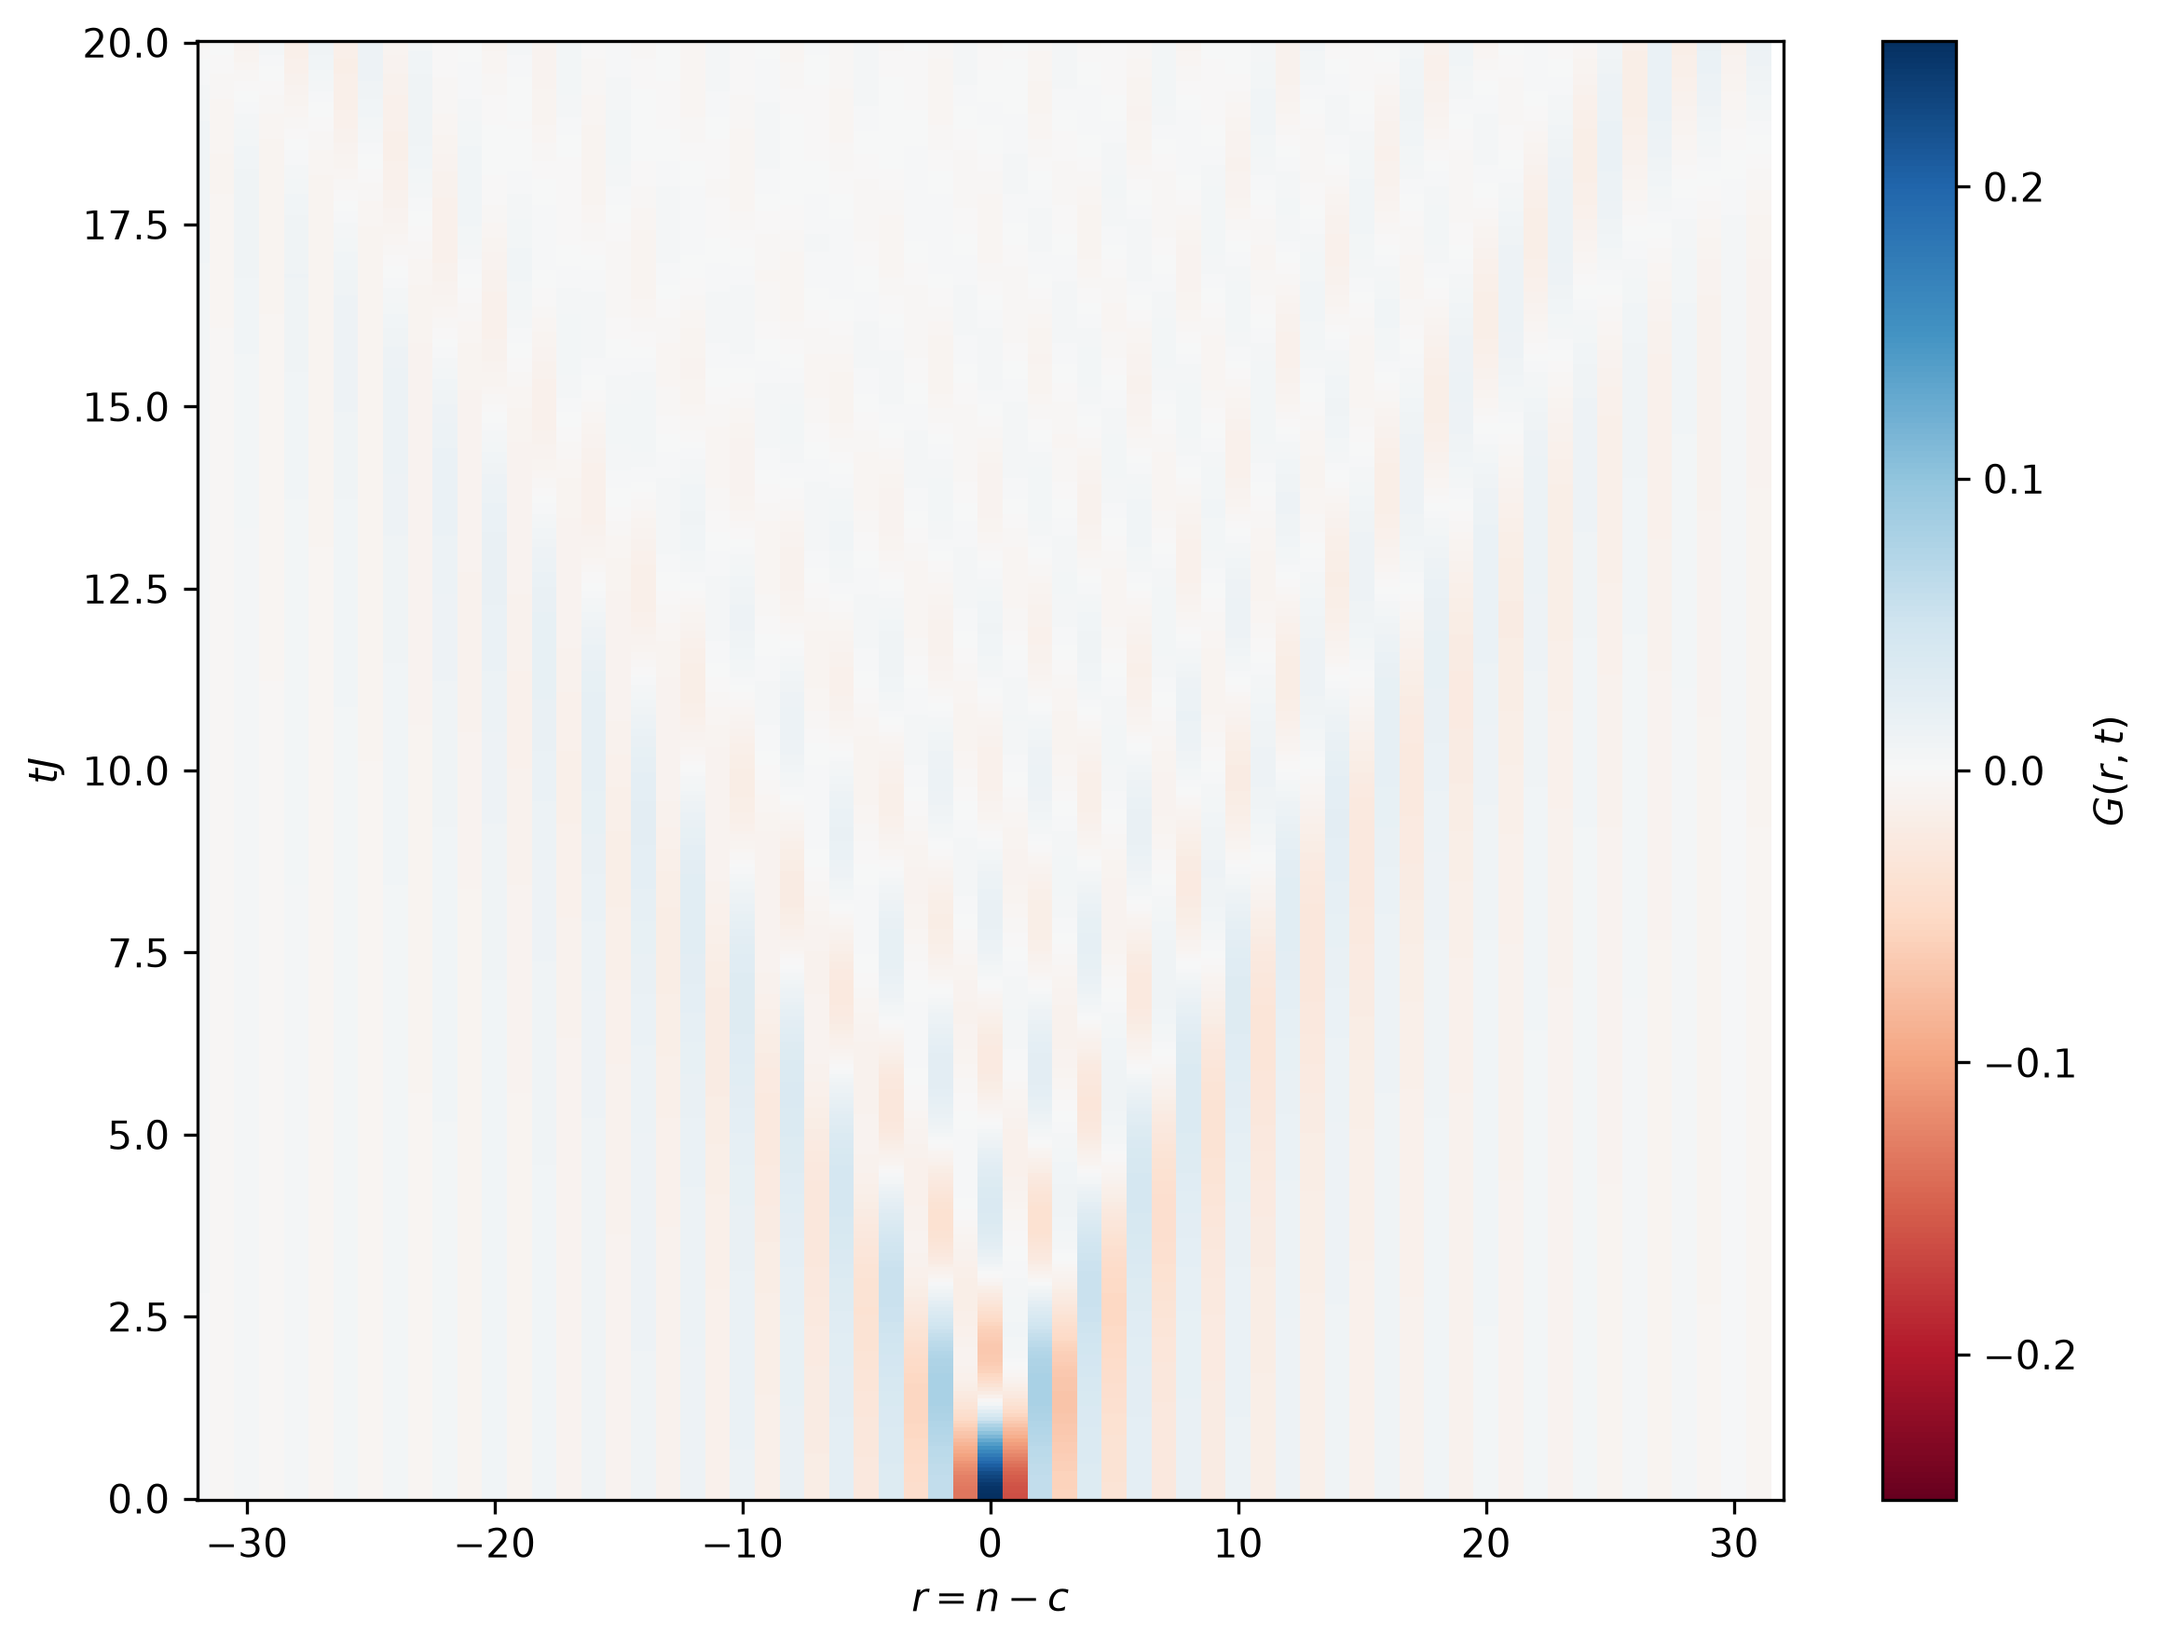
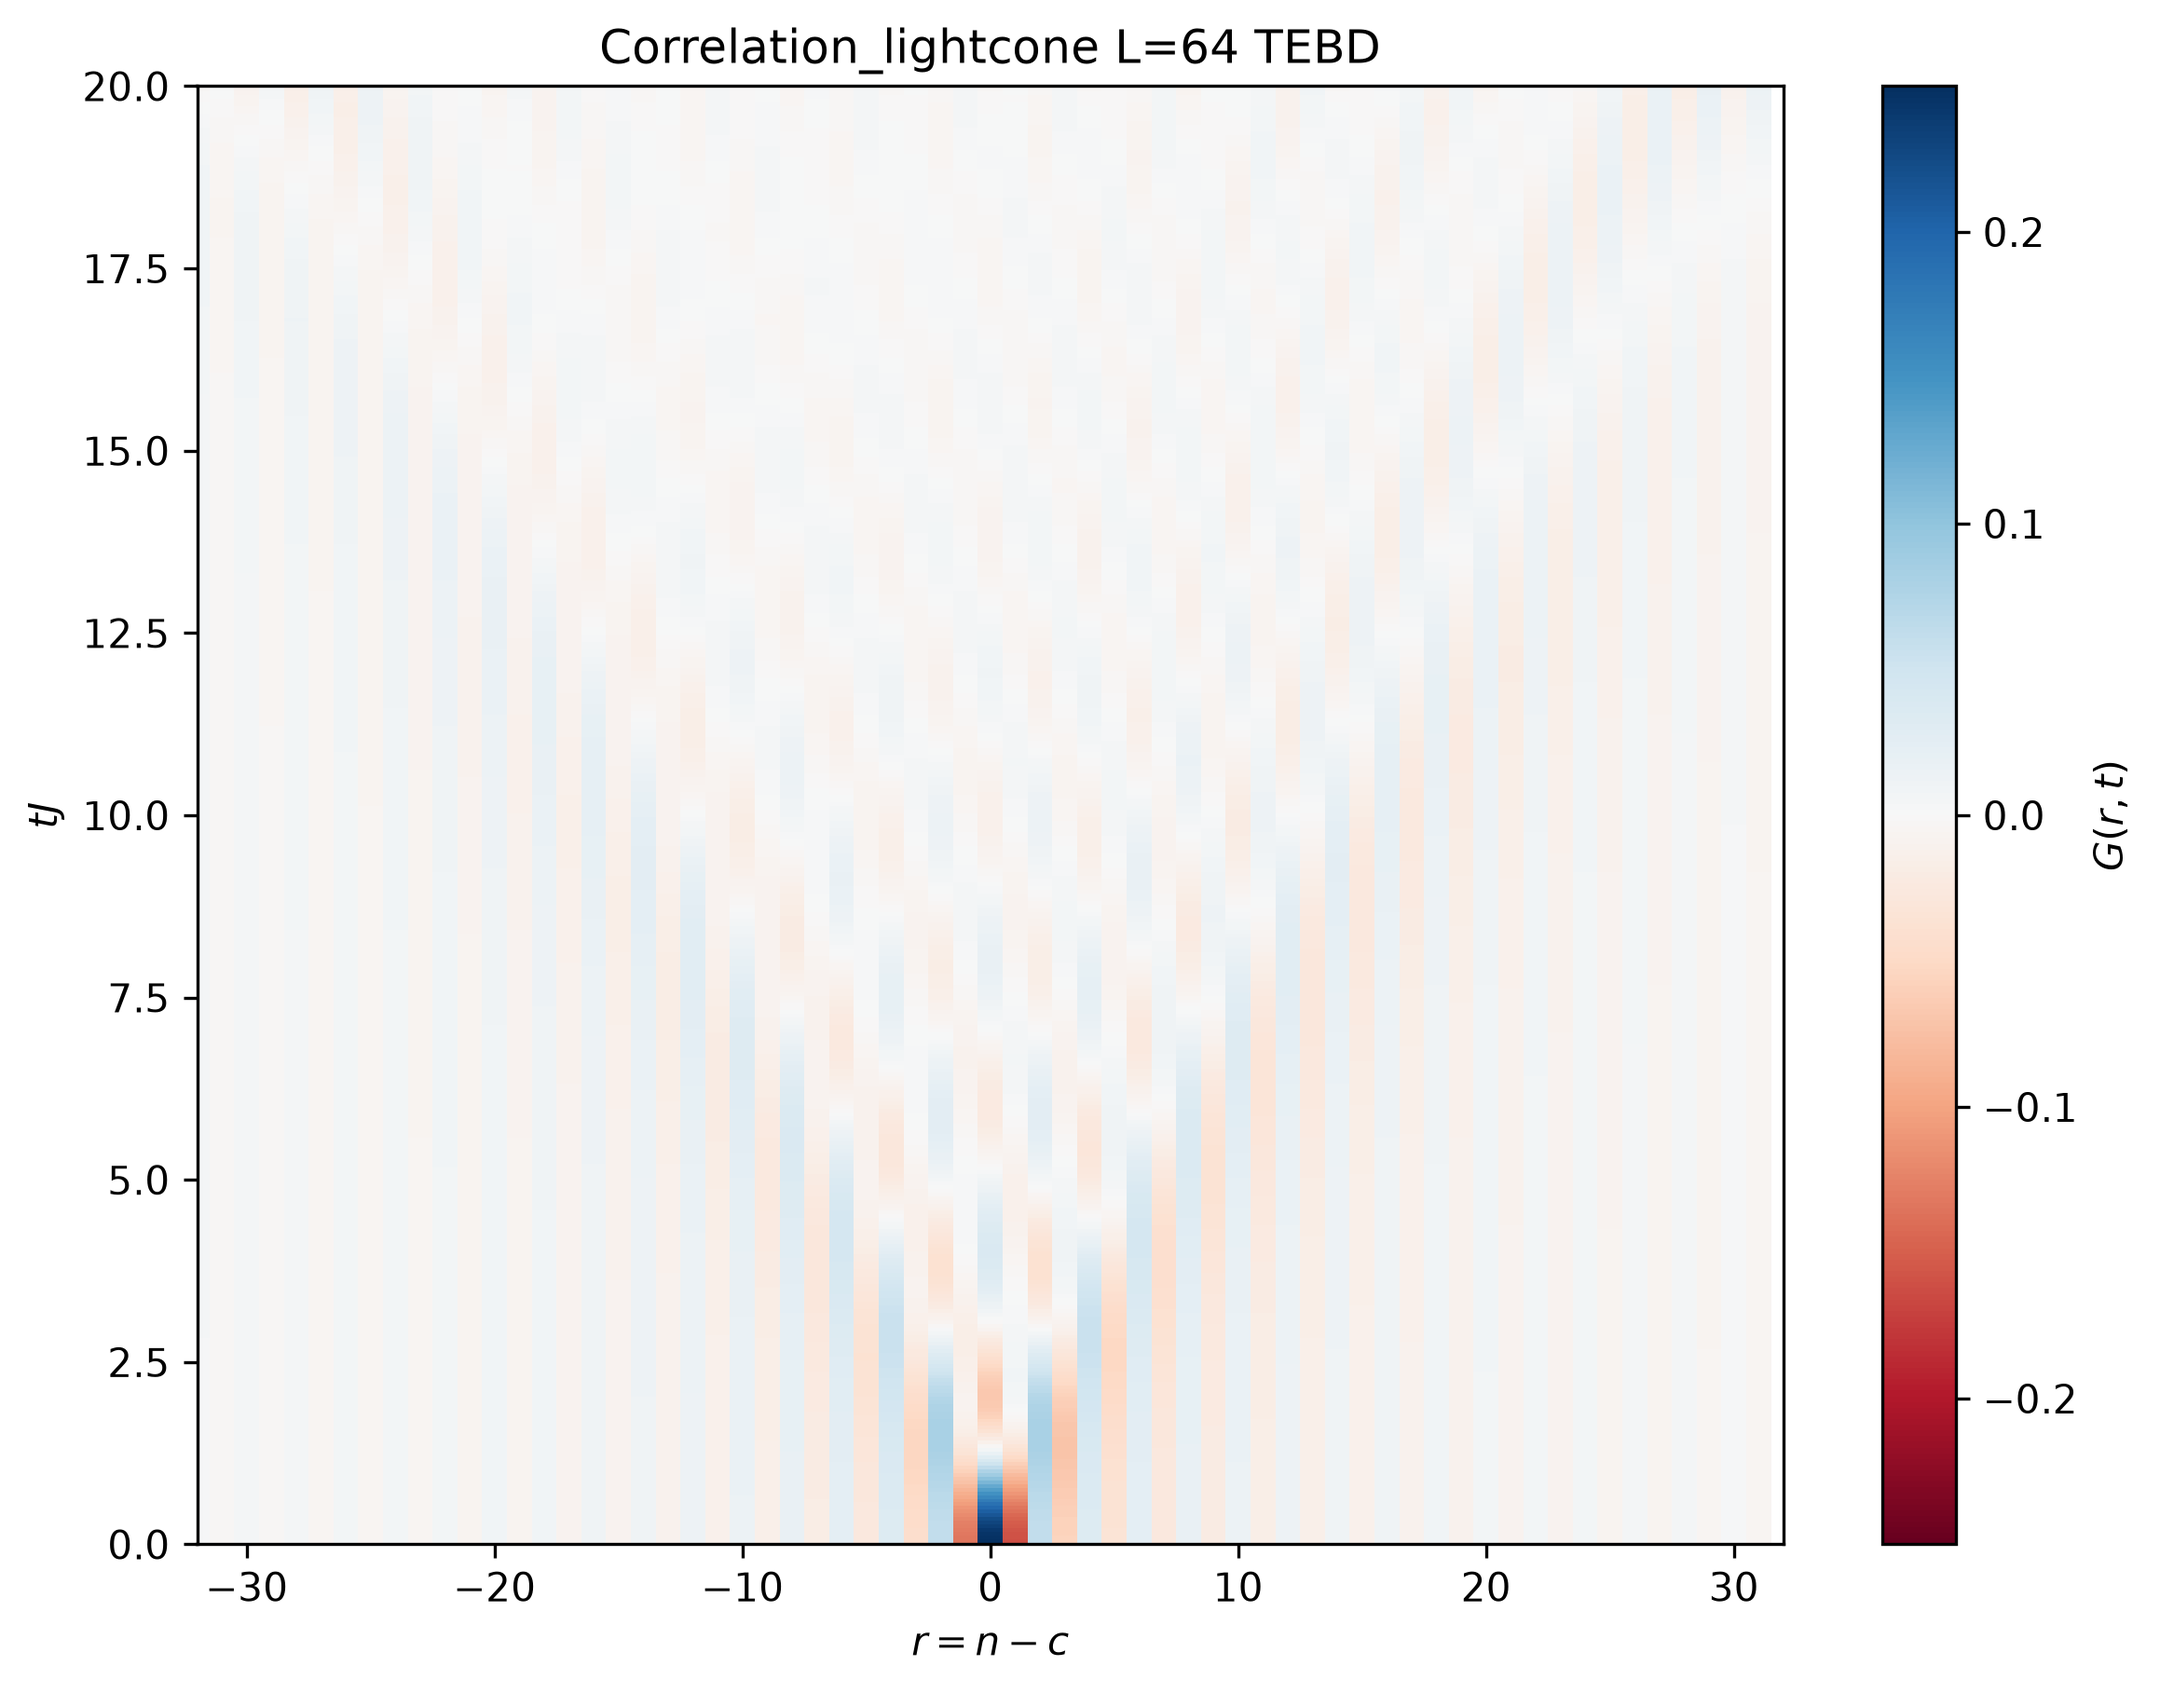
fix lightcone graph

diff --git a/sqw_tebd.py b/sqw_tebd.py
@@ -99,7 +99,9 @@ plt.xlabel(r"$r=n-c$")
 plt.ylabel(r"$tJ$")
 plt.colorbar(label=r"$G(r,t)$")
 plt.xlim(-L // 2, L // 2)
+plt.ylim(0, t_max)
 plt.tight_layout()
+plt.title("Correlation_lightcone L=64 TEBD")
 plt.savefig("correlation_lightcone.png", dpi=300, bbox_inches="tight")
 plt.show()
 
